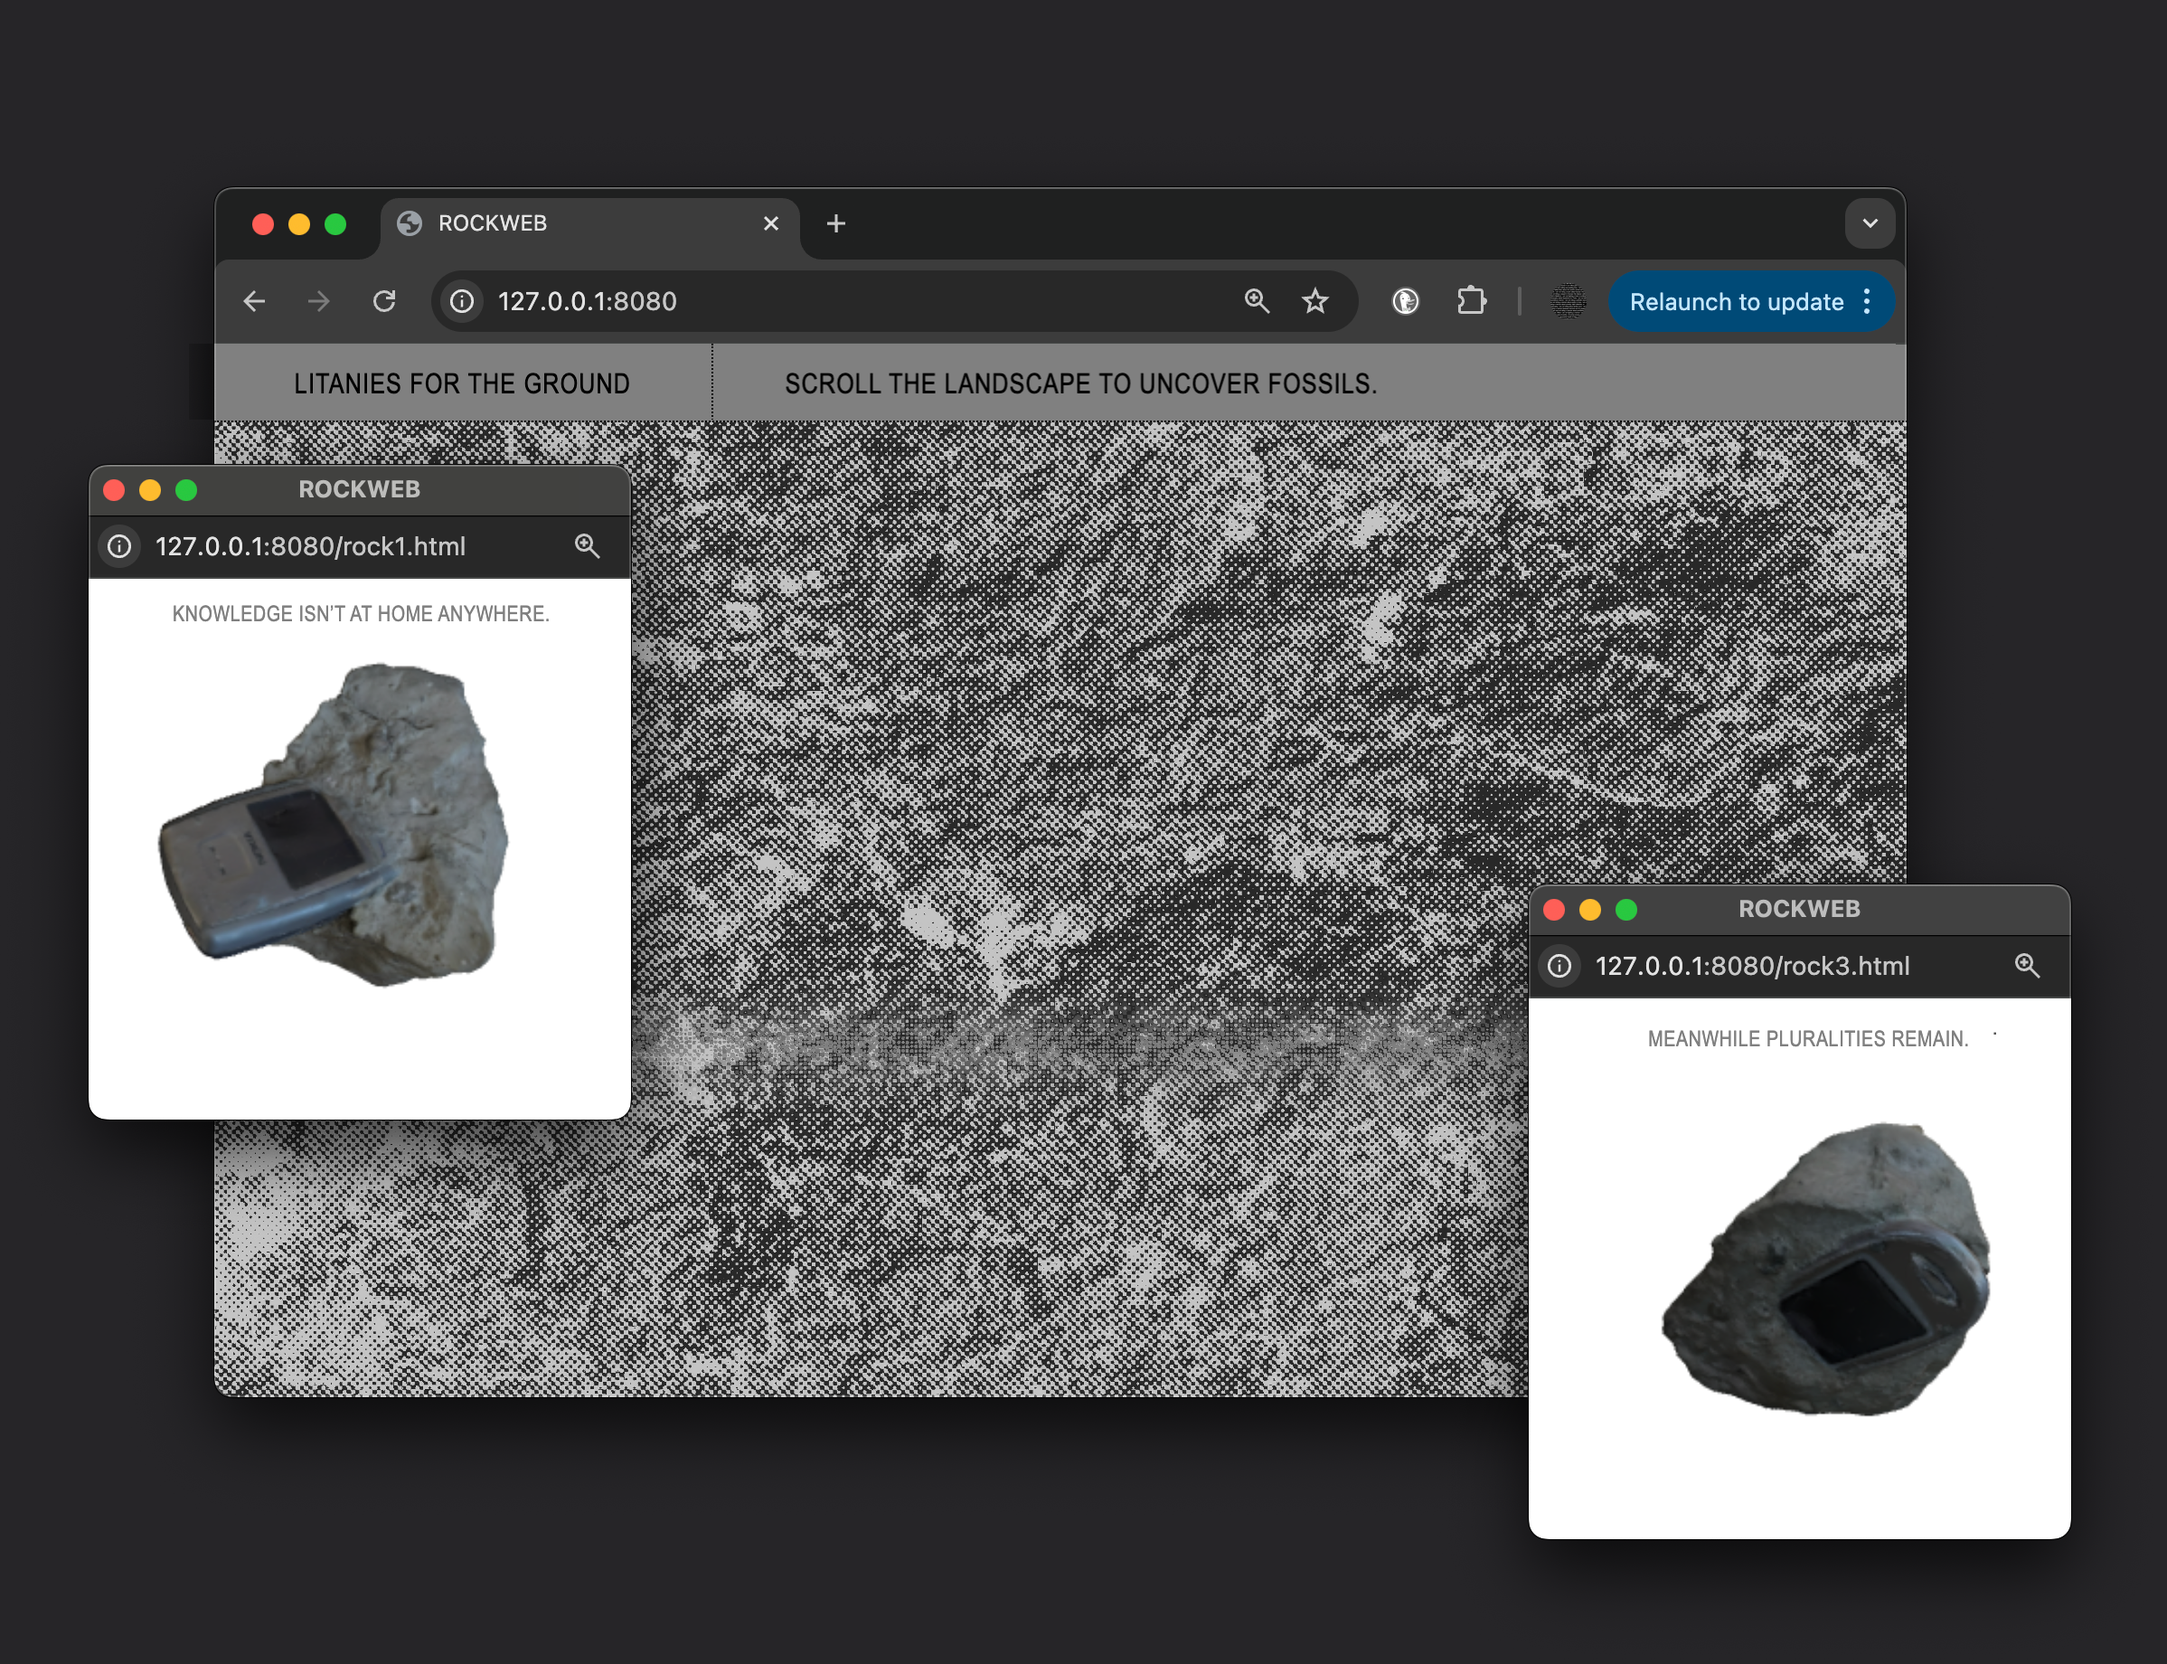
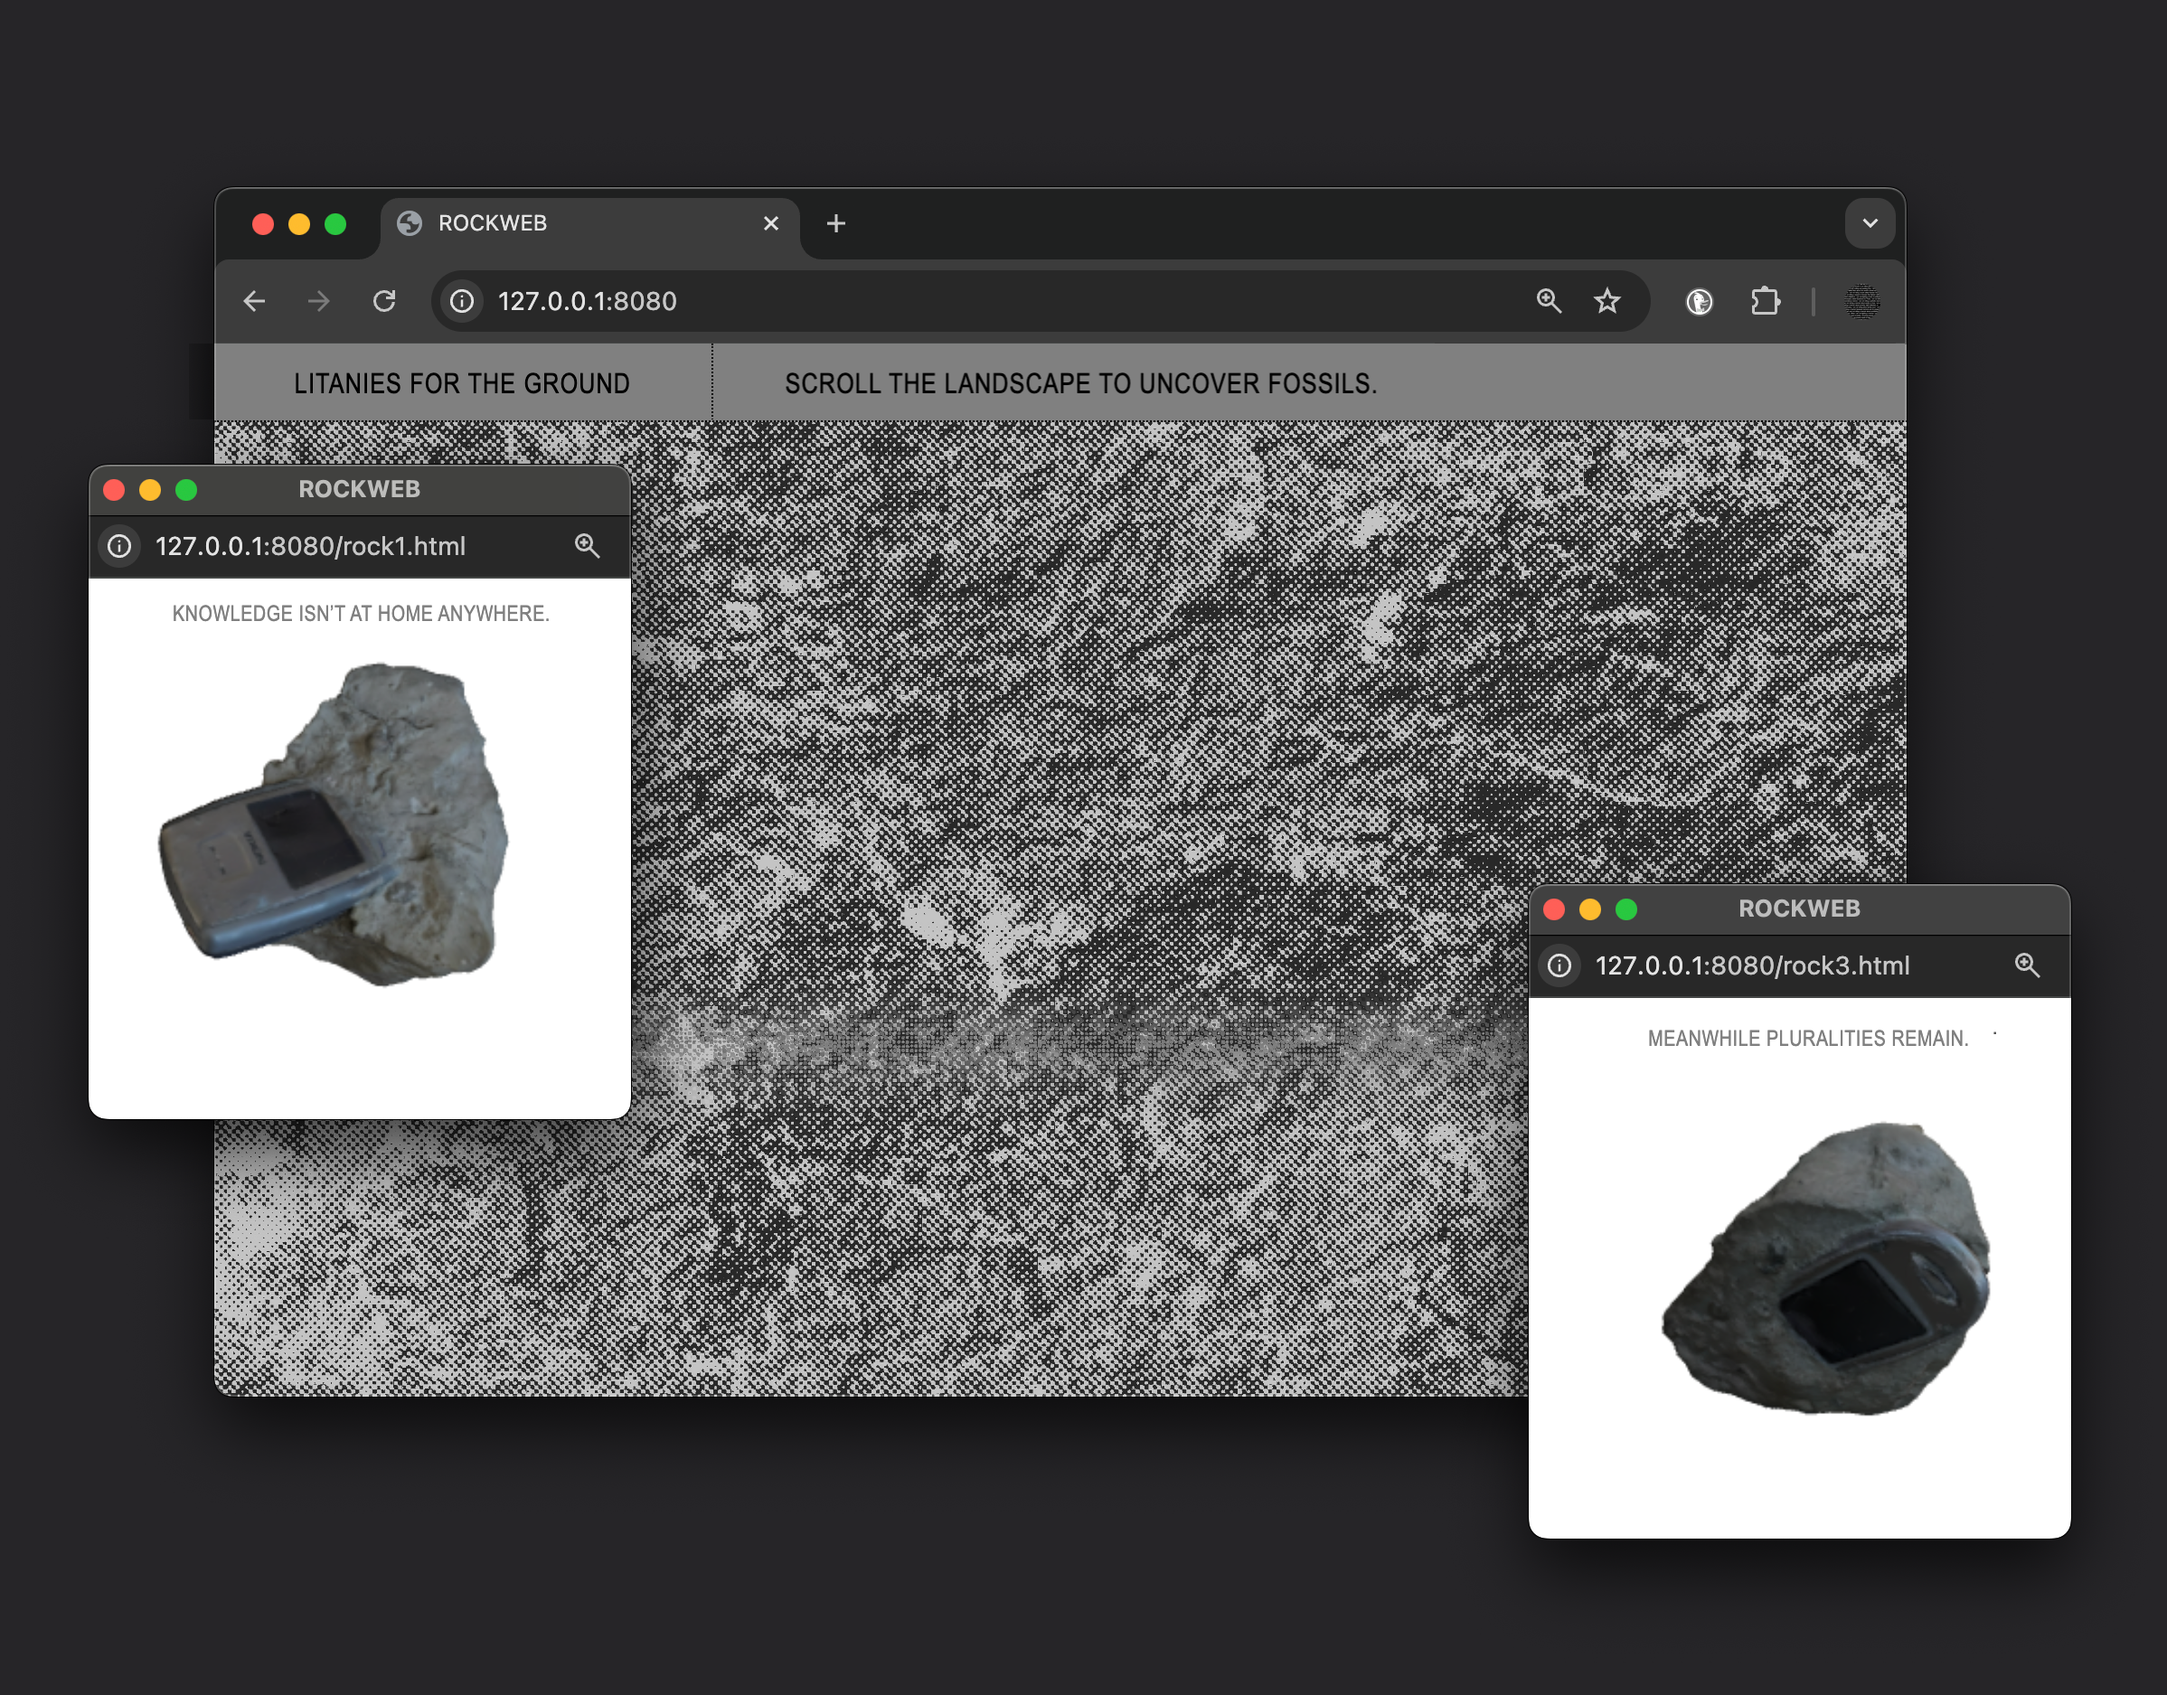
update fossil doc details

Changed region(s): [[0.0309, 0.0929, 0.957, 0.8674], [0.7101, 0.8984, 0.957, 0.9293]]

diff --git a/index.html b/index.html
@@ -87,7 +87,7 @@
 					worked on < a href="https://www.media.mit.edu/projects/scratch/overview/" target="_blank" > creative
 						tools</a > at MIT. She has her MFA in Literary Arts from Brown University, and lives in Providence on Narragansett land.
 					< br /> <br />
-					kathy has been published via < a href="https://parsonsdt.github.io/critical-coding-cookbook/" target="_blank" > The New School</a >, Dialogist, Rain Taxi, and anthologized in <a href="https://fonografeditions.com/catalog/fono31-de-canon-fe-a-mouth-holds-many-things-print-anthology/" target="_blank">Fonograf Editions</a>. Her poems are also forthcoming via NatBrut, Tilted House, and a < a href="https://nightboat.org/book/permanent-record-poetics-towards-the-archive/" target="_blank" > Nightboat Books</a > anthology.She has been awarded fine arts residencies at Blue Mountain Center, Black Mountain College Museum, and Pao Arts Center.
+					kathy has been published via < a href="https://parsonsdt.github.io/critical-coding-cookbook/" target="_blank" > The New School</a >, Dialogist, Rain Taxi, and anthologized in <a href="https://fonografeditions.com/catalog/fono31-de-canon-fe-a-mouth-holds-many-things-print-anthology/" target="_blank">Fonograf Editions</a>. Her poems are also forthcoming via NatBrut, Tilted House, and a < a href="https://nightboat.org/book/permanent-record-poetics-towards-the-archive/" target="_blank" > Nightboat Books</a > anthology. She has been awarded fine arts residencies at Blue Mountain Center, Black Mountain College Museum, and Pao Arts Center.
 					< br /> <br />She's passionate about community arts practices, in collective publishing, as well as artistic
 					literacies and < a href="https://interferencearchive.org/" target="_blank" > political education</a >. Always nice to hear from new people, collaborators, etc, say hello~
 					<br /> < br />

diff --git a/work/work.js b/work/work.js
@@ -27,7 +27,7 @@ work = [
 
   <br>
   POETRY MANUSCRIPT
-  Manuscript is in progress!
+  Writing, design, images. Printed in a small batch on my own.
 
   [book1.jpg]
   [book2.png]
@@ -66,10 +66,13 @@ work = [
 [spin.gif]
 [falling.gif]
 [forget.gif]
-
-More objects. I give credit to the brilliant Mika Ben Amar <a href="https://www.instagram.com/100o111/" target="_blank"> who made usb stones first.</a> 
-          [usb2.JPG]
-          [usb1.JPG]
+<br>
+More objects. USB, USB-C, SD card... I give credit to the brilliant Mika Ben Amar <a href="https://www.instagram.com/100o111/" target="_blank"> who made usb stones first.</a> 
+          [usbcomp2.JPG]
+          [mono5.JPG]
+         
+         <br>USB with the encoding of its own 3D image—
+          [usb1-edit.JPG]
 
       `},
   {
